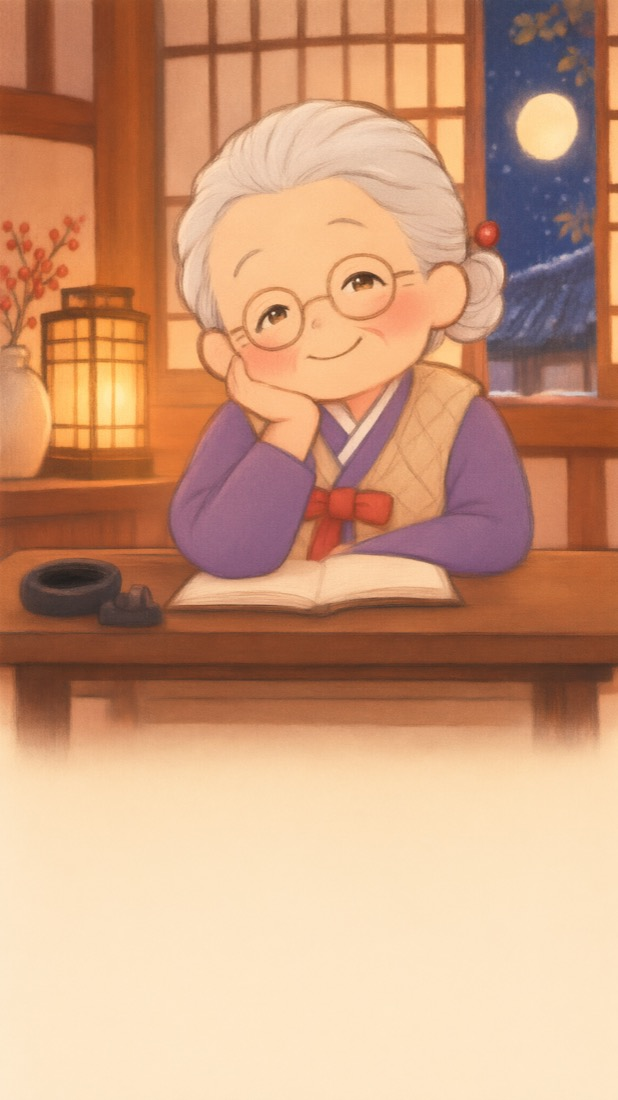
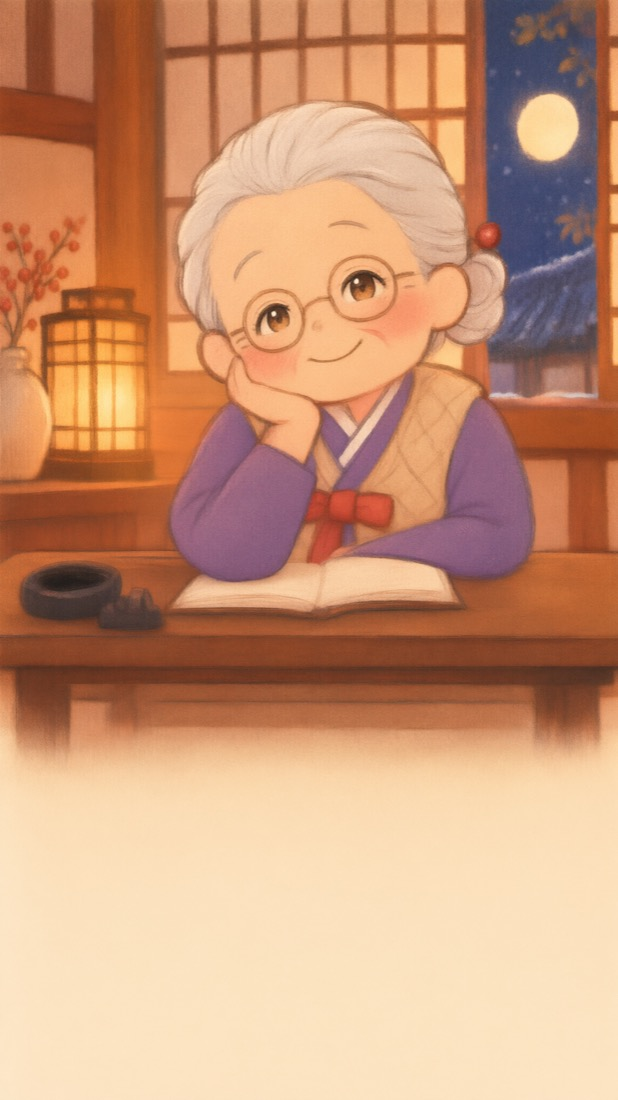
할미 표정 그림 4장 수정(3번 얼굴·크기, 눈 살짝 크게)

diff --git a/preview/soft.html b/preview/soft.html
@@ -1,3 +1,3 @@
 <!doctype html><html lang="ko"><head><meta charset="utf-8"><meta name="viewport" content="width=device-width,initial-scale=1"><meta name="robots" content="noindex,nofollow"><title>할미 표정 바꾼 그림 4장</title>
 <style>body{margin:0;background:#F6F1E7;font-family:-apple-system,sans-serif;color:#2B2622}main{max-width:448px;margin:0 auto;padding:16px 16px 48px}h1{font-size:20px;line-height:30px;margin:8px 0}p{font-size:15px;line-height:24px;color:#6E6459;margin:4px 0 16px}.box{position:relative;border-radius:16px;overflow:hidden}.box img{display:block;width:100%}.say{position:absolute;left:16px;right:16px;bottom:24%;text-align:center;font-family:serif;font-size:18px;line-height:27px;color:#0E324C;margin:0}.cap{font-size:13px;margin:4px 0 24px}</style></head>
-<body><main><h1>표정 바꾼 그림 4장 · 인자하고 기품 있게</h1><p>입 다문 은은한 미소, 부드럽게 뜬 갈색 눈. 영상 만들기 전 그림이에요.</p><div class="box"><img src="s/Q1.jpg"><p class="say">“운명을 펼치기 전에, 먼저 이름부터 알려줄래요?”</p></div><p class="cap">Q1 · 도입</p><div class="box"><img src="s/Q5.jpg"><p class="say">“좋아요, 몇 가지만 더 물어볼게요! 혹시 지금 만나는 분이 계세요?”</p></div><p class="cap">Q5 · 연애</p><div class="box"><img src="s/Q8.jpg"><p class="say">“특별히 물어보실 내용이 있다면 따로 풀이를 작성해 드릴게요.”</p></div><p class="cap">Q8 · 따로 물을 것</p><div class="box"><img src="s/Q9.jpg"><p class="say">“자, 이제 마지막이에요! 제비 하나만 뽑아주시겠어요?”</p></div><p class="cap">Q9 · 마지막</p></main></body></html>
+<body><main><h1>표정 바꾼 그림 4장 · 인자하고 기품 있게</h1><p>입 다문 은은한 미소, 부드럽게 뜬 갈색 눈. 영상 만들기 전 그림이에요.</p><div class="box"><img src="s/Q1.jpg?v=3"><p class="say">“운명을 펼치기 전에, 먼저 이름부터 알려줄래요?”</p></div><p class="cap">Q1 · 도입</p><div class="box"><img src="s/Q5.jpg?v=3"><p class="say">“좋아요, 몇 가지만 더 물어볼게요! 혹시 지금 만나는 분이 계세요?”</p></div><p class="cap">Q5 · 연애</p><div class="box"><img src="s/Q8.jpg?v=3"><p class="say">“특별히 물어보실 내용이 있다면 따로 풀이를 작성해 드릴게요.”</p></div><p class="cap">Q8 · 따로 물을 것</p><div class="box"><img src="s/Q9.jpg?v=3"><p class="say">“자, 이제 마지막이에요! 제비 하나만 뽑아주시겠어요?”</p></div><p class="cap">Q9 · 마지막</p></main></body></html>
